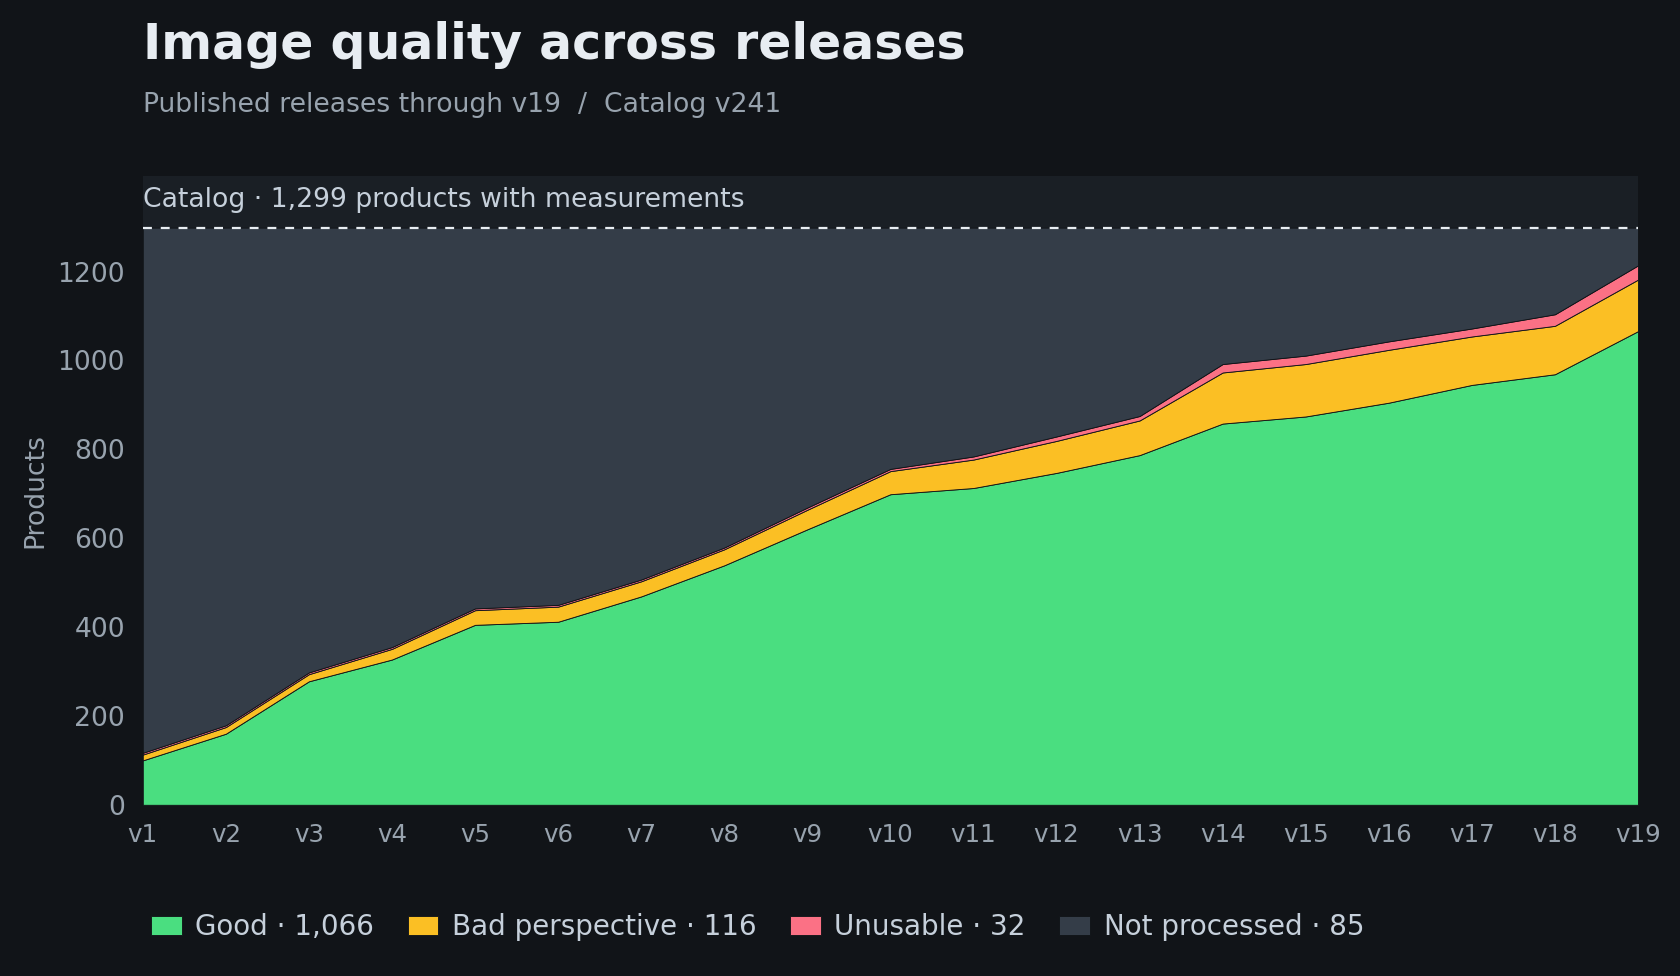
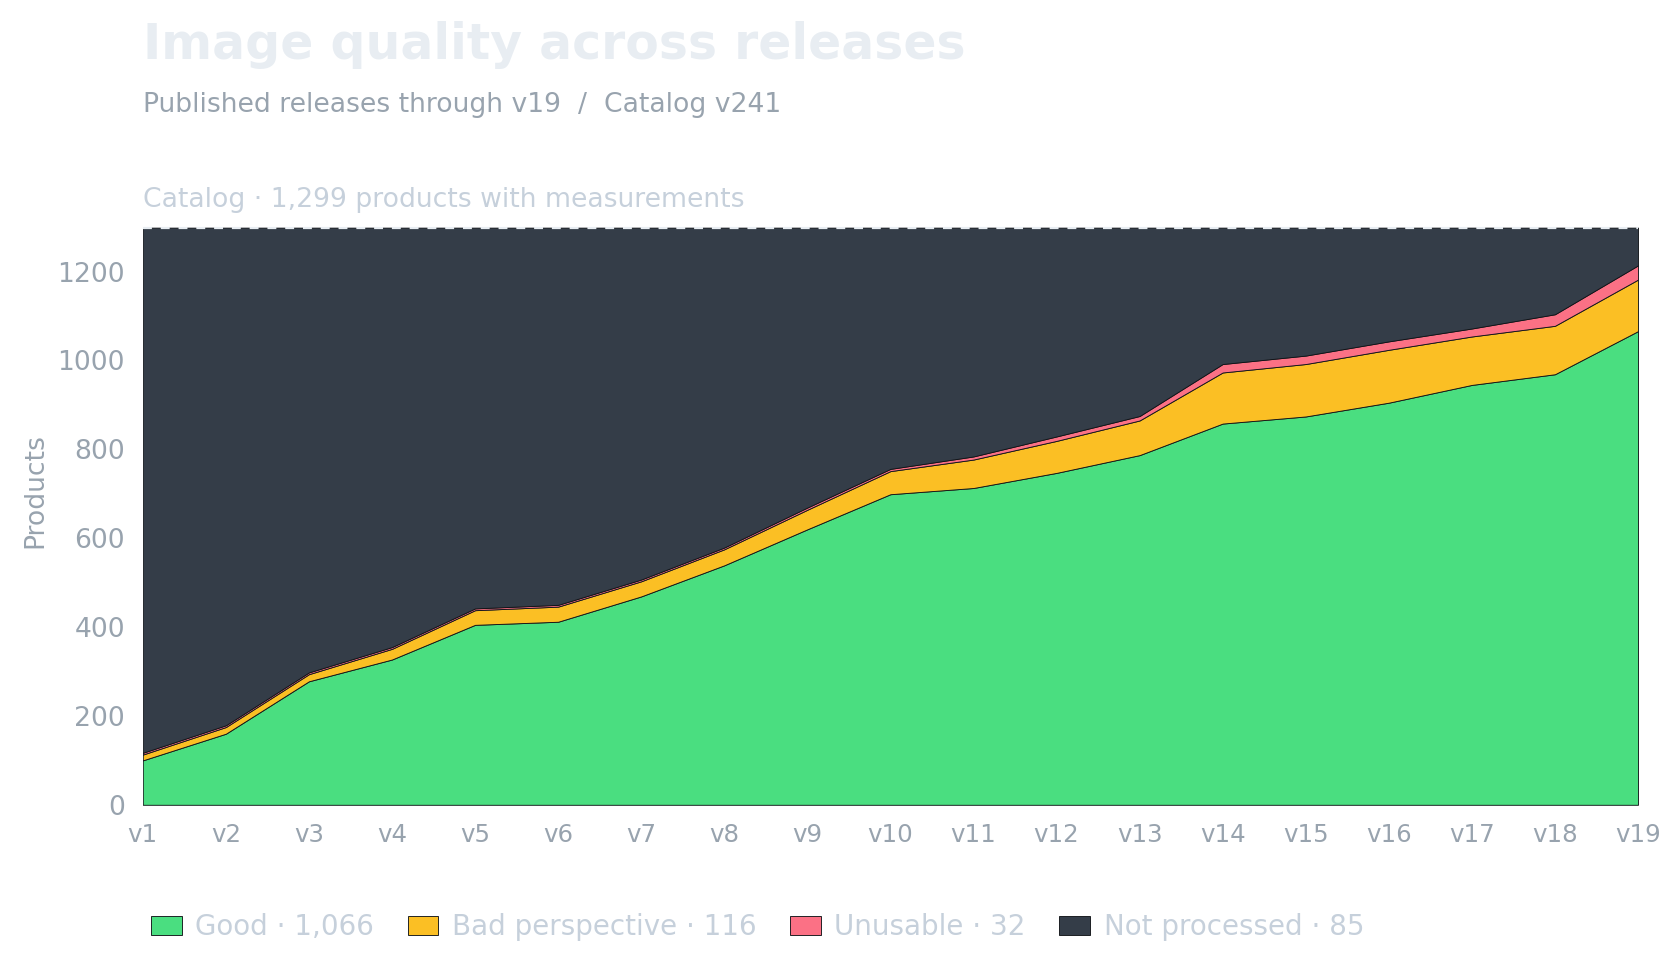
Blend README progress chart into GitHub dark themes

diff --git a/admin/dataset_charts.py b/admin/dataset_charts.py
@@ -158,8 +158,7 @@ def render_chart(data: dict, field: str, output_dir: Path) -> None:
             "svg.hashsalt": "dataset-charts",
         }
     ):
-        fig, ax = plt.subplots(figsize=(10.5, height), facecolor="#111418")
-        ax.set_facecolor("#1a1f25")
+        fig, ax = plt.subplots(figsize=(10.5, height))
         fig.subplots_adjust(
             left=0.085,
             right=0.975,
@@ -226,6 +225,7 @@ def render_chart(data: dict, field: str, output_dir: Path) -> None:
             fig.savefig(
                 path,
                 dpi=160,
+                transparent=True,
                 metadata={"Date": None} if extension == "svg" else None,
             )
             if extension == "svg":

diff --git a/README.md b/README.md
@@ -4,11 +4,7 @@ This is a community project to create a clean silhouette and main-length alignme
 
 The review app removes backgrounds from product photos and provides a quick workflow for correcting the mask, rating the result, and marking the product's usable length. The catalog contains adult products, so contributors should expect adult imagery in the review interface.
 
-## Dataset progress
-
 [![Processed products by type across dataset releases](docs/charts/product-type-history.svg)](docs/charts/product-type-history.svg)
-
-[Image quality across releases](docs/charts/image-quality-history.svg)
 
 ## The dataset
 
